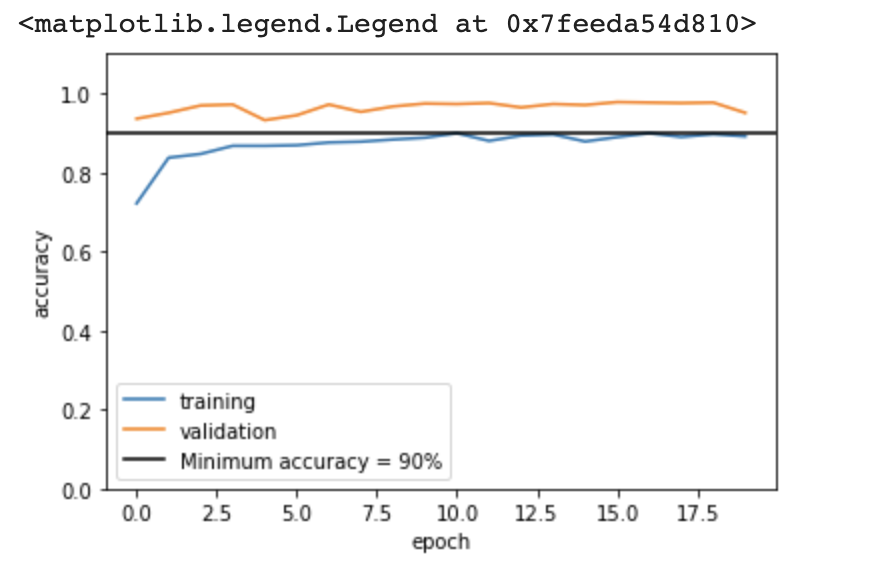
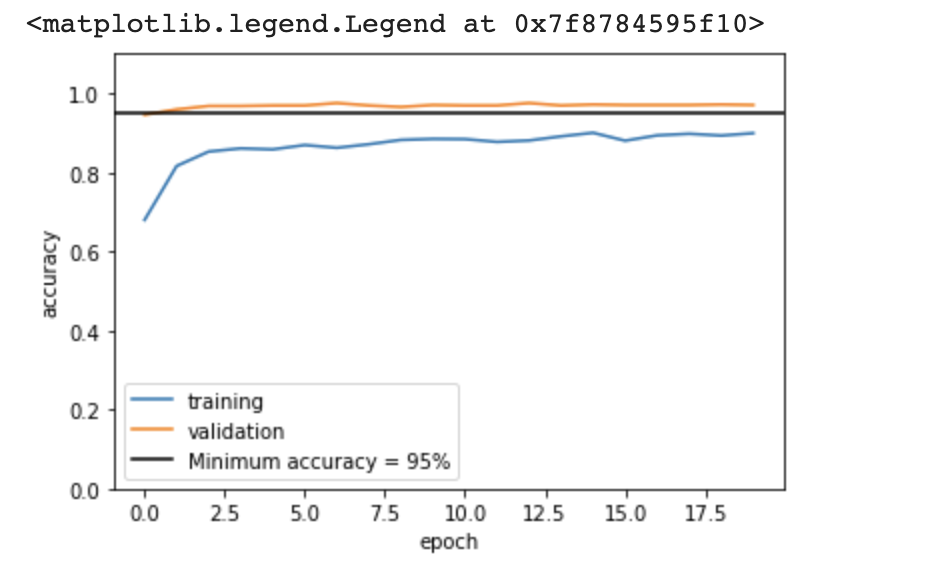
update

Changed region(s): [[0.0, 0.0, 0.8778, 0.9808]]

diff --git a/_posts/2022-02-25-blog-5.md b/_posts/2022-02-25-blog-5.md
@@ -548,45 +548,45 @@ The output below:
 
 ```python
 Epoch 1/20
-63/63 [==============================] - 13s 113ms/step - loss: 1.5629 - accuracy: 0.7215 - val_loss: 0.2175 - val_accuracy: 0.9356
+63/63 [==============================] - 13s 113ms/step - loss: 2.0201 - accuracy: 0.6795 - val_loss: 0.1557 - val_accuracy: 0.9455
 Epoch 2/20
-63/63 [==============================] - 6s 87ms/step - loss: 0.9056 - accuracy: 0.8370 - val_loss: 0.1738 - val_accuracy: 0.9505
+63/63 [==============================] - 6s 87ms/step - loss: 0.9871 - accuracy: 0.8160 - val_loss: 0.1272 - val_accuracy: 0.9592
 Epoch 3/20
-63/63 [==============================] - 6s 87ms/step - loss: 0.7643 - accuracy: 0.8465 - val_loss: 0.1033 - val_accuracy: 0.9691
+63/63 [==============================] - 6s 88ms/step - loss: 0.7142 - accuracy: 0.8525 - val_loss: 0.1108 - val_accuracy: 0.9678
 Epoch 4/20
-63/63 [==============================] - 6s 88ms/step - loss: 0.6723 - accuracy: 0.8670 - val_loss: 0.1046 - val_accuracy: 0.9715
+63/63 [==============================] - 6s 87ms/step - loss: 0.6595 - accuracy: 0.8605 - val_loss: 0.1047 - val_accuracy: 0.9678
 Epoch 5/20
-63/63 [==============================] - 6s 87ms/step - loss: 0.6424 - accuracy: 0.8670 - val_loss: 0.2221 - val_accuracy: 0.9319
+63/63 [==============================] - 6s 86ms/step - loss: 0.6864 - accuracy: 0.8580 - val_loss: 0.0923 - val_accuracy: 0.9691
 Epoch 6/20
-63/63 [==============================] - 6s 88ms/step - loss: 0.5946 - accuracy: 0.8685 - val_loss: 0.1806 - val_accuracy: 0.9443
+63/63 [==============================] - 6s 85ms/step - loss: 0.5790 - accuracy: 0.8690 - val_loss: 0.0984 - val_accuracy: 0.9691
 Epoch 7/20
-63/63 [==============================] - 6s 88ms/step - loss: 0.5383 - accuracy: 0.8755 - val_loss: 0.0983 - val_accuracy: 0.9715
+63/63 [==============================] - 6s 87ms/step - loss: 0.5817 - accuracy: 0.8620 - val_loss: 0.0837 - val_accuracy: 0.9752
 Epoch 8/20
-63/63 [==============================] - 6s 87ms/step - loss: 0.5380 - accuracy: 0.8775 - val_loss: 0.1612 - val_accuracy: 0.9530
+63/63 [==============================] - 6s 87ms/step - loss: 0.5659 - accuracy: 0.8710 - val_loss: 0.1058 - val_accuracy: 0.9691
 Epoch 9/20
-63/63 [==============================] - 6s 88ms/step - loss: 0.5307 - accuracy: 0.8830 - val_loss: 0.1046 - val_accuracy: 0.9666
+63/63 [==============================] - 6s 93ms/step - loss: 0.4454 - accuracy: 0.8820 - val_loss: 0.0950 - val_accuracy: 0.9653
 Epoch 10/20
-63/63 [==============================] - 6s 88ms/step - loss: 0.5534 - accuracy: 0.8875 - val_loss: 0.0872 - val_accuracy: 0.9740
+63/63 [==============================] - 6s 92ms/step - loss: 0.4804 - accuracy: 0.8845 - val_loss: 0.0858 - val_accuracy: 0.9703
 Epoch 11/20
-63/63 [==============================] - 6s 87ms/step - loss: 0.4472 - accuracy: 0.8990 - val_loss: 0.0837 - val_accuracy: 0.9728
+63/63 [==============================] - 6s 86ms/step - loss: 0.4096 - accuracy: 0.8840 - val_loss: 0.0839 - val_accuracy: 0.9691
 Epoch 12/20
-63/63 [==============================] - 6s 91ms/step - loss: 0.5088 - accuracy: 0.8795 - val_loss: 0.0764 - val_accuracy: 0.9752
+63/63 [==============================] - 6s 86ms/step - loss: 0.5232 - accuracy: 0.8770 - val_loss: 0.1131 - val_accuracy: 0.9691
 Epoch 13/20
-63/63 [==============================] - 6s 89ms/step - loss: 0.4150 - accuracy: 0.8930 - val_loss: 0.0932 - val_accuracy: 0.9641
+63/63 [==============================] - 6s 87ms/step - loss: 0.4424 - accuracy: 0.8805 - val_loss: 0.0736 - val_accuracy: 0.9752
 Epoch 14/20
-63/63 [==============================] - 6s 88ms/step - loss: 0.4082 - accuracy: 0.8960 - val_loss: 0.0735 - val_accuracy: 0.9728
+63/63 [==============================] - 6s 86ms/step - loss: 0.3821 - accuracy: 0.8910 - val_loss: 0.1000 - val_accuracy: 0.9691
 Epoch 15/20
-63/63 [==============================] - 6s 90ms/step - loss: 0.4344 - accuracy: 0.8780 - val_loss: 0.0871 - val_accuracy: 0.9703
+63/63 [==============================] - 6s 86ms/step - loss: 0.3850 - accuracy: 0.9000 - val_loss: 0.0697 - val_accuracy: 0.9715
 Epoch 16/20
-63/63 [==============================] - 6s 92ms/step - loss: 0.4230 - accuracy: 0.8890 - val_loss: 0.0690 - val_accuracy: 0.9777
+63/63 [==============================] - 6s 86ms/step - loss: 0.4115 - accuracy: 0.8800 - val_loss: 0.0777 - val_accuracy: 0.9703
 Epoch 17/20
-63/63 [==============================] - 6s 89ms/step - loss: 0.3816 - accuracy: 0.8990 - val_loss: 0.0690 - val_accuracy: 0.9765
+63/63 [==============================] - 6s 87ms/step - loss: 0.3725 - accuracy: 0.8935 - val_loss: 0.0901 - val_accuracy: 0.9703
 Epoch 18/20
-63/63 [==============================] - 6s 87ms/step - loss: 0.3658 - accuracy: 0.8895 - val_loss: 0.0651 - val_accuracy: 0.9752
+63/63 [==============================] - 6s 87ms/step - loss: 0.3937 - accuracy: 0.8975 - val_loss: 0.0797 - val_accuracy: 0.9703
 Epoch 19/20
-63/63 [==============================] - 6s 87ms/step - loss: 0.3650 - accuracy: 0.8965 - val_loss: 0.0621 - val_accuracy: 0.9765
+63/63 [==============================] - 6s 86ms/step - loss: 0.3618 - accuracy: 0.8930 - val_loss: 0.0801 - val_accuracy: 0.9715
 Epoch 20/20
-63/63 [==============================] - 6s 89ms/step - loss: 0.4018 - accuracy: 0.8910 - val_loss: 0.1363 - val_accuracy: 0.9505
+63/63 [==============================] - 6s 87ms/step - loss: 0.3643 - accuracy: 0.8990 - val_loss: 0.0847 - val_accuracy: 0.9703
 ```
 
 
@@ -612,7 +612,7 @@ plt.legend()
 
 >
 >
->**The validation accuracy of model stabilized between 95% and 98% during training.**
+>**The validation accuracy of model stabilized between 94% and 98% during training.**
 >
 >
 
@@ -634,8 +634,8 @@ print('Test accuracy :', accuracy)
 The output below:
 
 ```python
-6/6 [==============================] - 1s 64ms/step - loss: 0.1253 - accuracy: 0.9688
-Test accuracy : 0.96875
+6/6 [==============================] - 1s 54ms/step - loss: 0.0889 - accuracy: 0.9635
+Test accuracy : 0.9635416865348816
 ```
 
 
